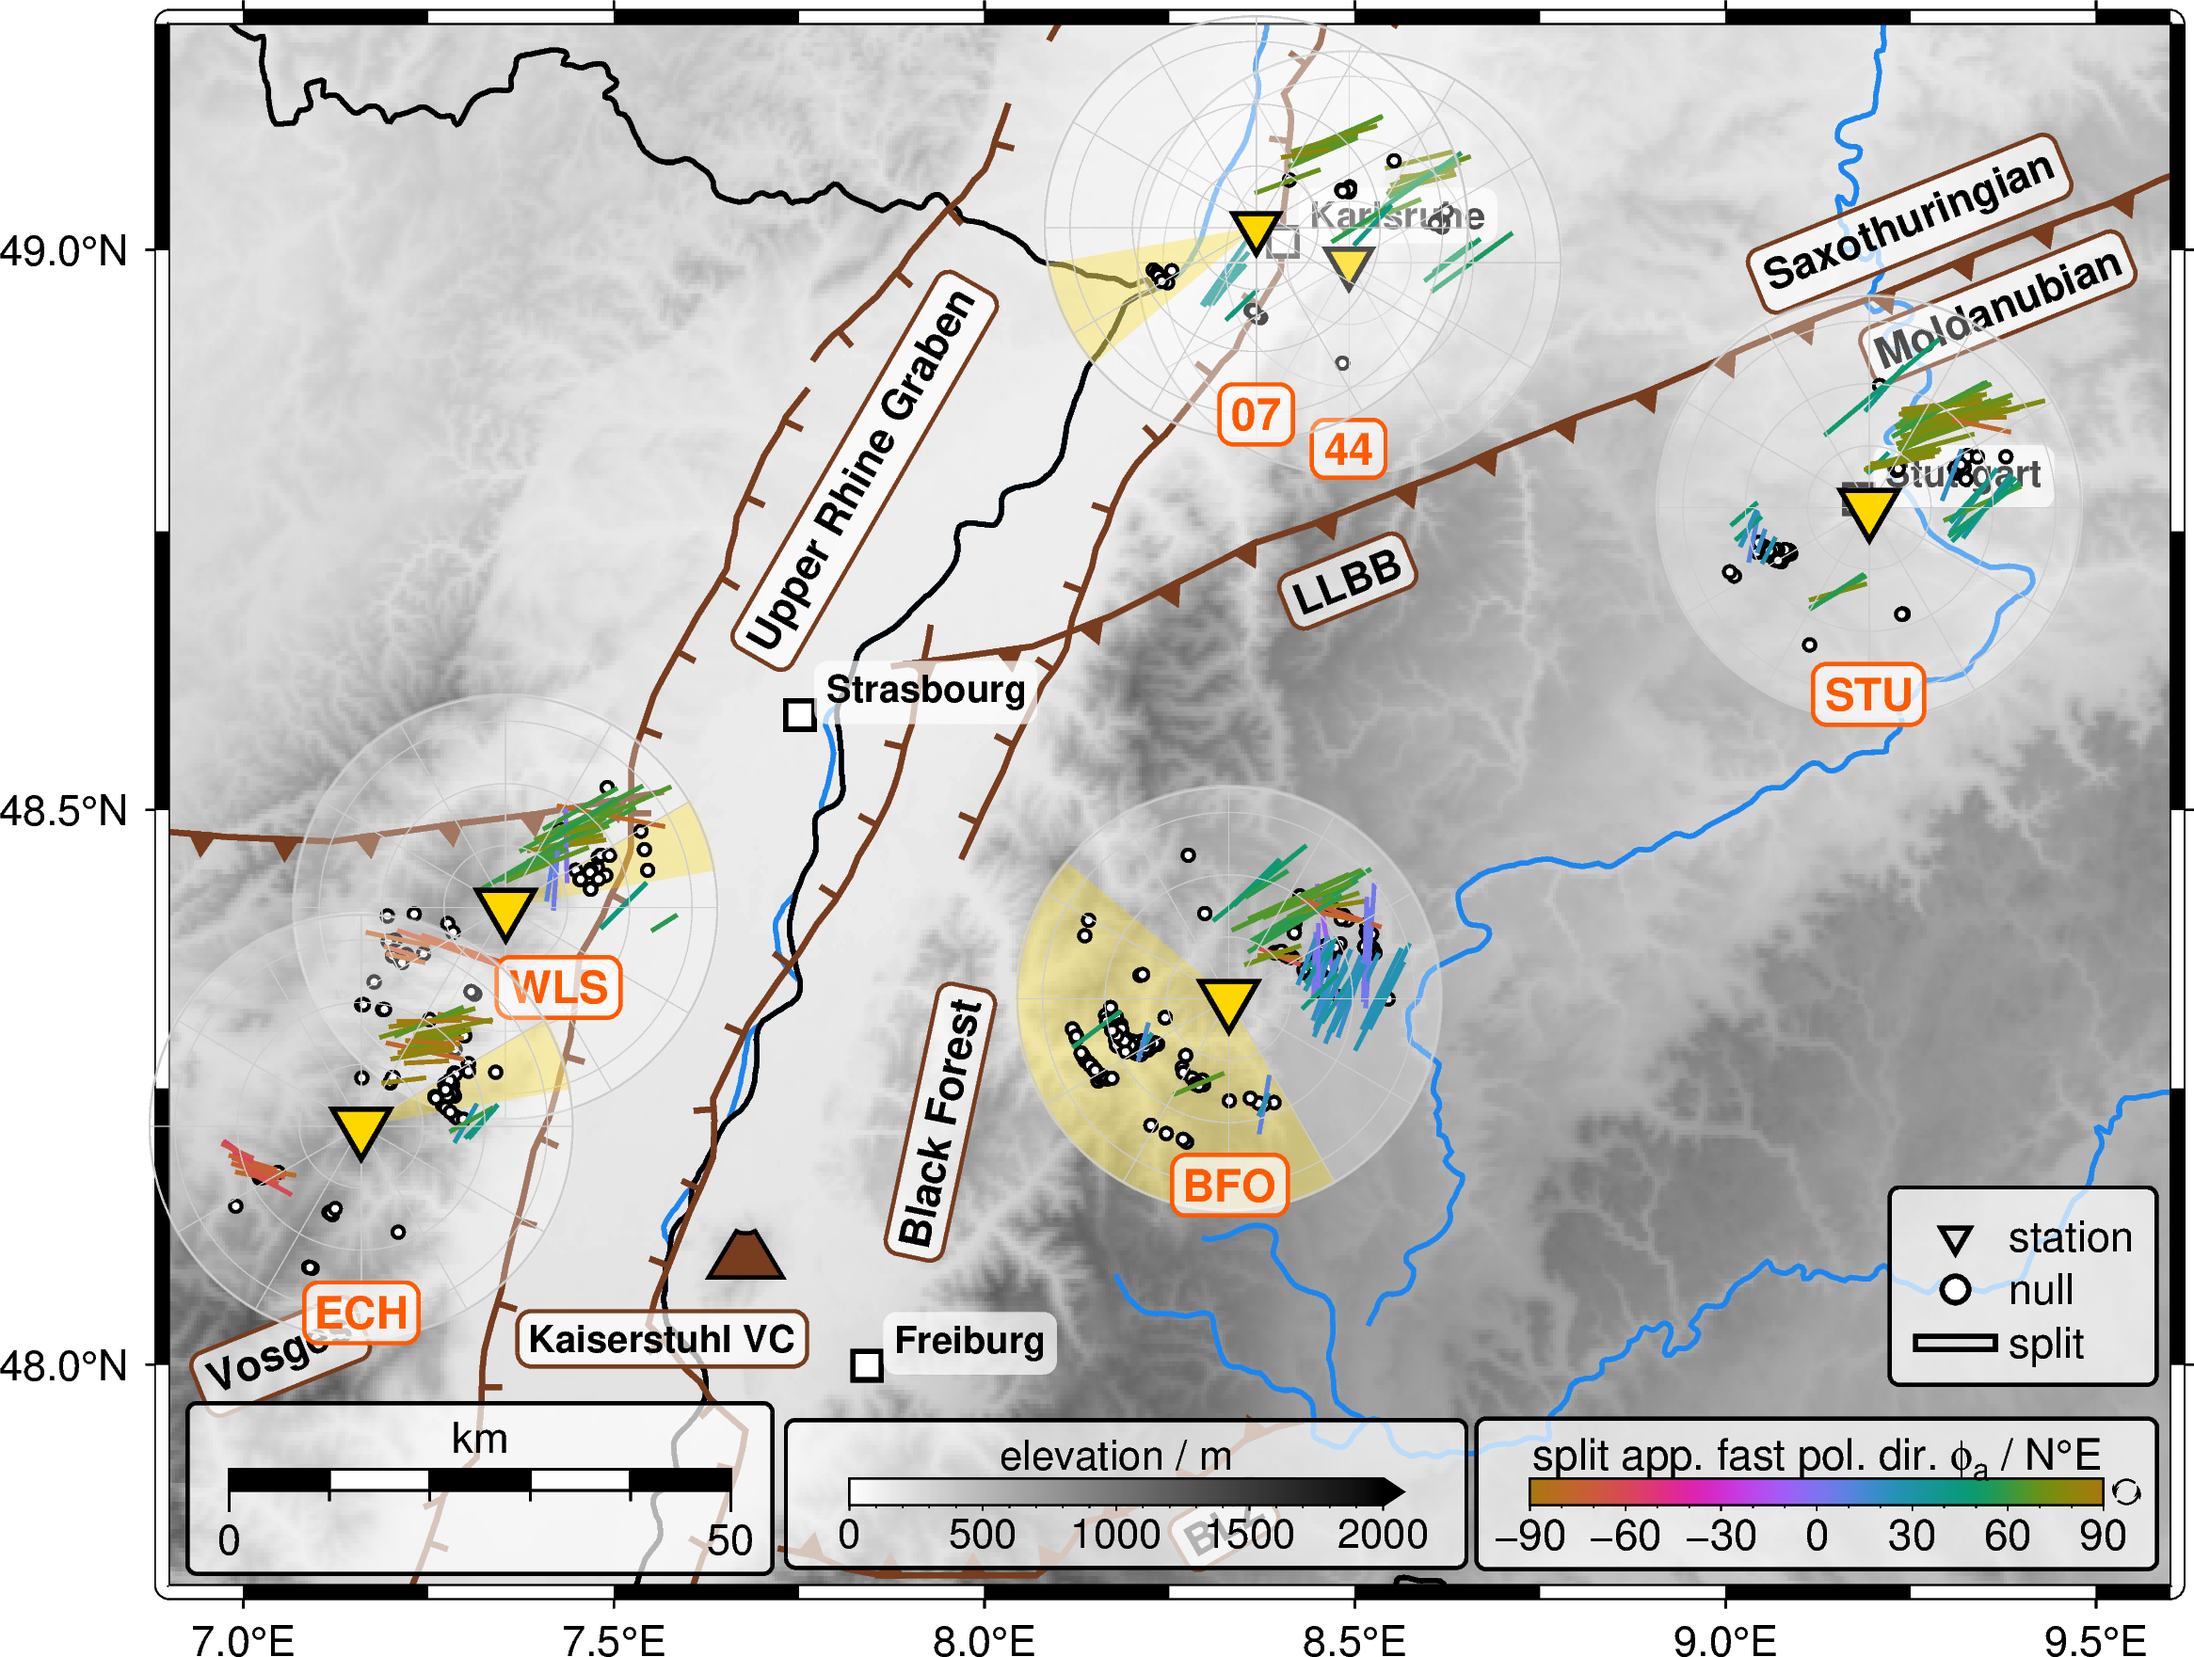
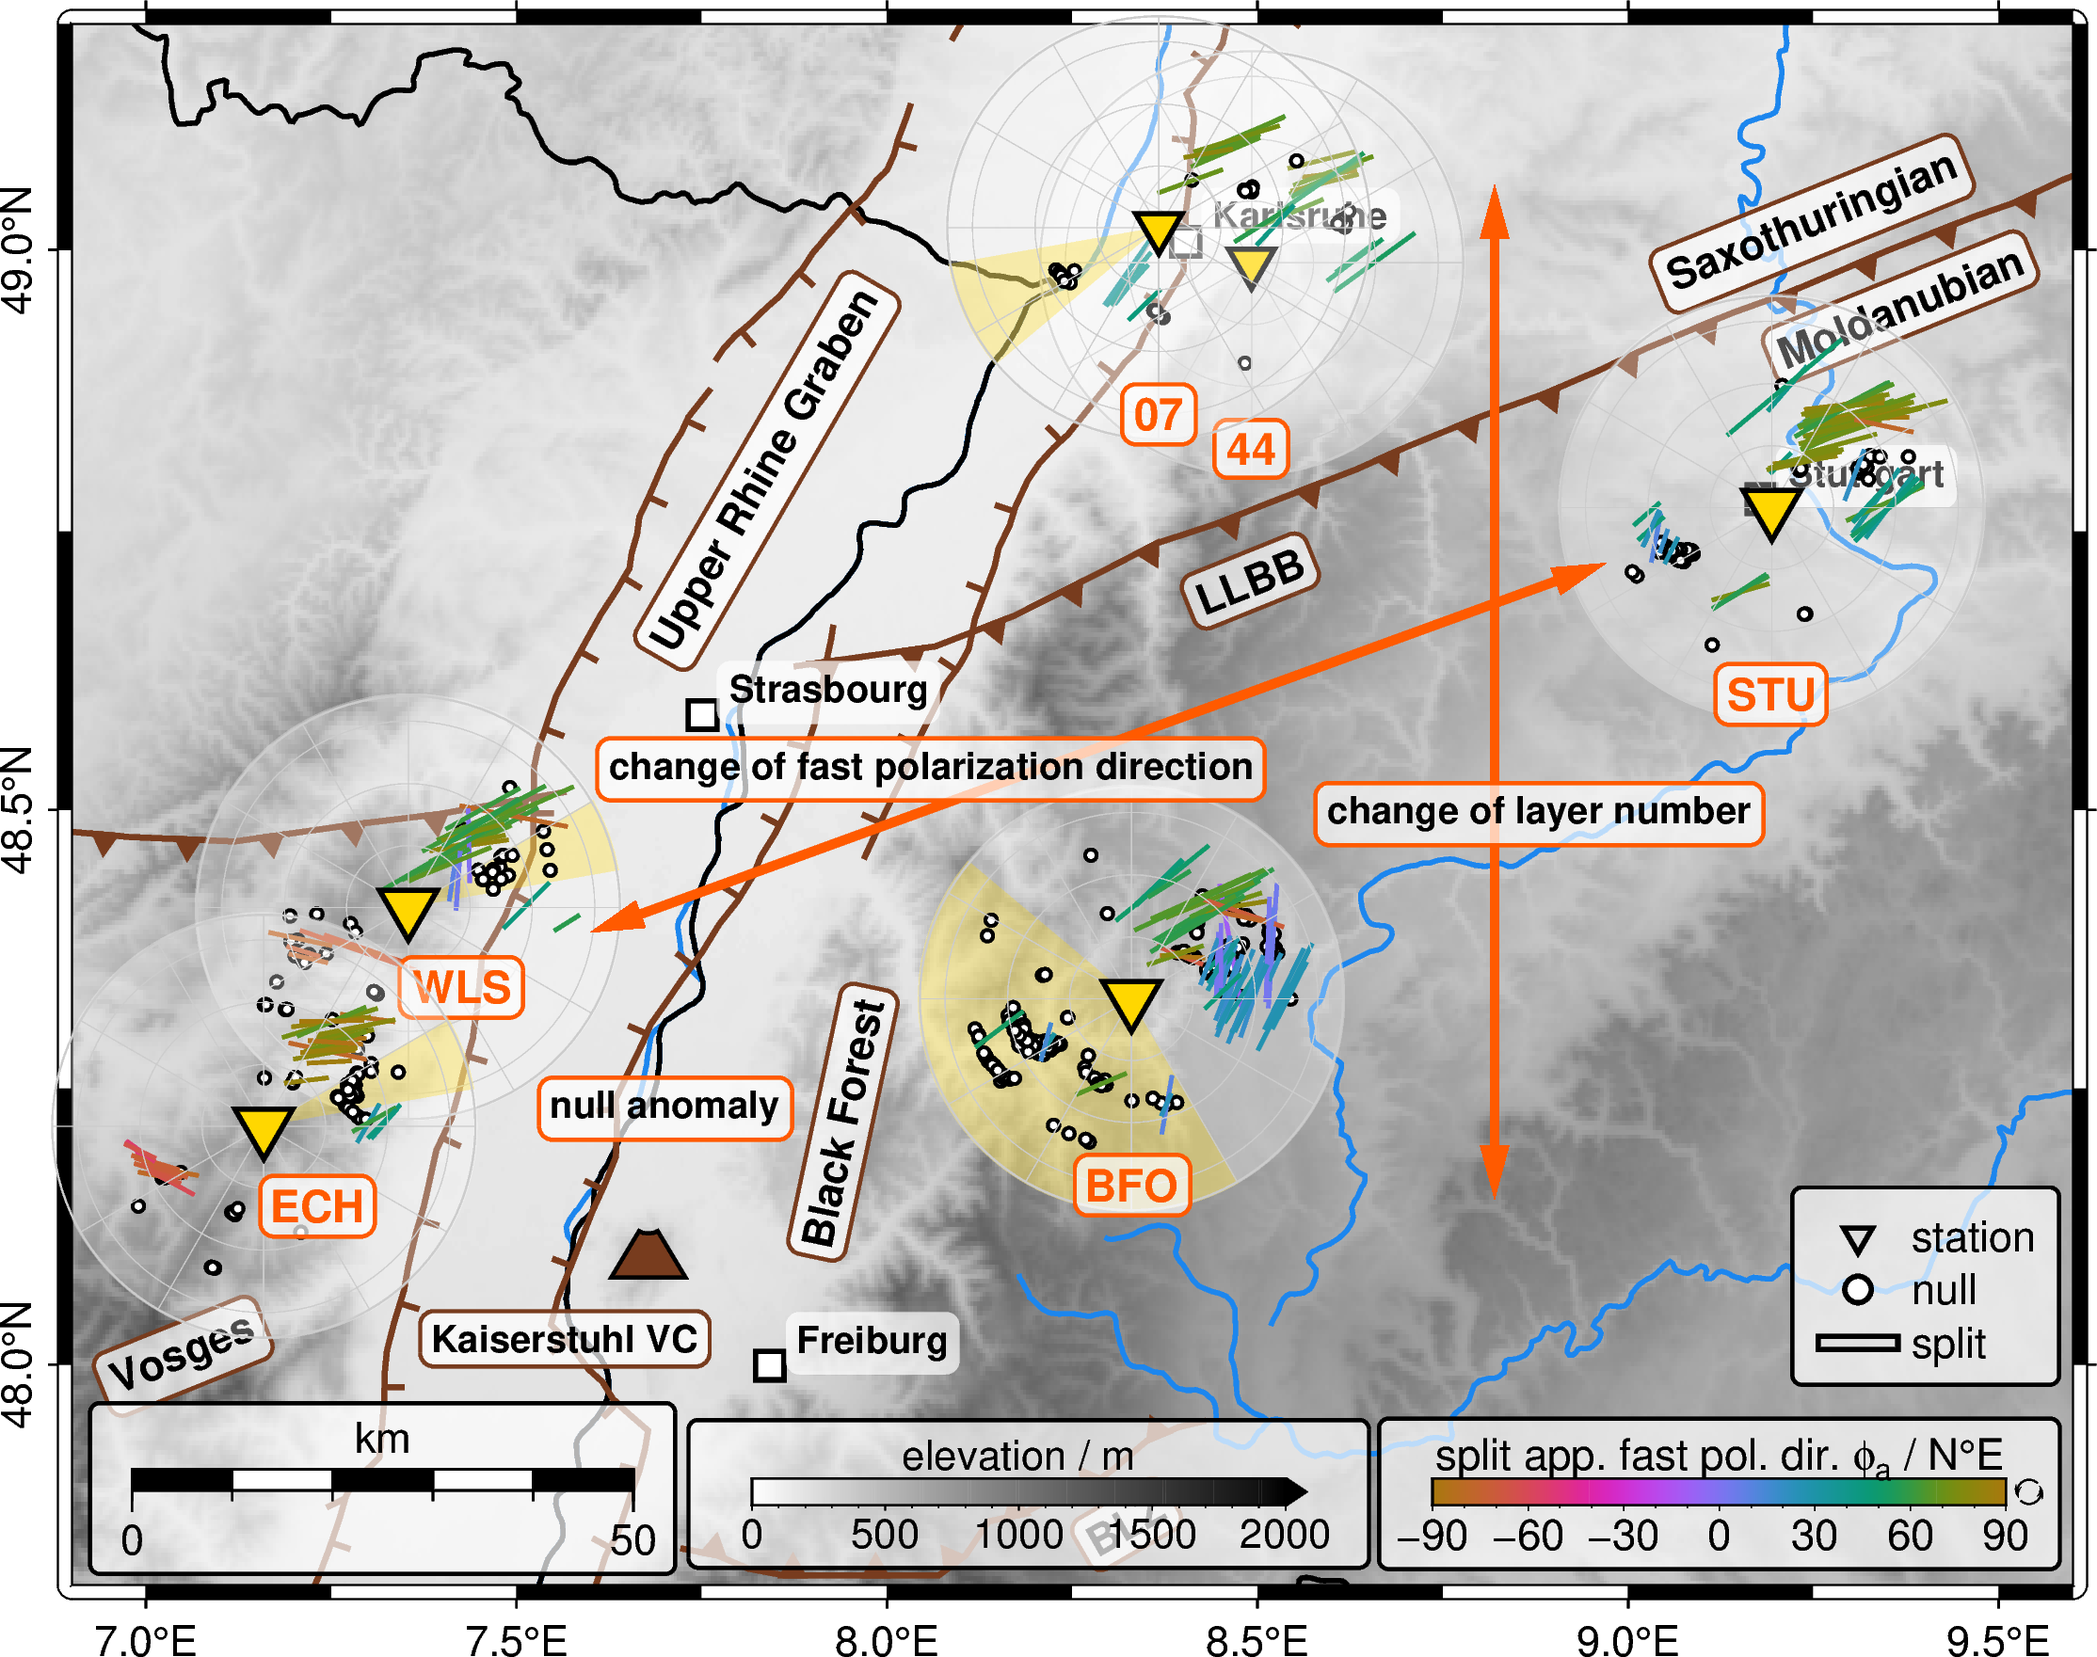
Add content for Fig10 of FGR GJI 2024

diff --git a/002_paper_FGR_2024/Figure_10/FGR2024_GJI_Fig10.py b/002_paper_FGR_2024/Figure_10/FGR2024_GJI_Fig10.py
@@ -124,6 +124,7 @@ gmt.config(
     MAP_FRAME_TYPE="fancy+",
     # formatting template for geographical coordinates F adds NESW after degree sign
     FORMAT_GEO_MAP="ddd.xF",
+    MAP_ANNOT_OBLIQUE="lat_parallel",
     MAP_FRAME_WIDTH="3p",
     FONT_LABEL="9p",
     FONT_ANNOT_PRIMARY="9p",
@@ -271,7 +272,7 @@ for station in stations:
 
     offset_x_sta = 0  # in centimeters
     offset_y_sta = -1.4  # in centimeters
-    if station in ["WLS"]:
+    if station in ["WLS", "ECH"]:
         offset_x_sta = 0.4
         offset_y_sta = -0.6
 
@@ -288,6 +289,69 @@ for station in stations:
         pen=f"0.8p,{color_hl}",
         clearance=clearance_standard,
     )
+
+
+# %%
+# -----------------------------------------------------------------------------
+# Highlight subregions by labels (patterns see above)
+# -----------------------------------------------------------------------------
+style_vector = "v0.4c+ba+ea+a30+h0"#+p0.5p,black"
+# layer number change S-N direction
+fig.plot(
+    x=8.82,
+    y=48.15,
+    # direction cc from horizontal, length in centimeters
+    direction=[[90], [7.6]],
+    style=style_vector,
+    pen=f"2p,{color_hl}",
+    fill=color_hl,
+)
+fig.text(
+    x=8.88,
+    y=48.5,
+    text="change of layer number",
+    font="8p,Helvetica-Bold,black",
+    fill="white@30",
+    pen=f"0.8p,{color_hl}",
+    clearance=clearance_standard,
+)
+
+# -----------------------------------------------------------------------------
+# Fast polarization direction change East West sides of URG
+x_EW = 7.6
+y_EW = 48.39
+dir_EW = [[20], [8.1]]
+y_EW_text = 48.54
+
+fig.plot(
+    x=x_EW,
+    y=y_EW,
+    direction=dir_EW,
+    style=style_vector,
+    pen=f"2p,{color_hl}",
+    fill=color_hl,
+)
+fig.text(
+    x=8.06,
+    y=y_EW_text,
+    text="change of fast polarization direction",
+    font="8p,Helvetica-Bold,black",
+    fill="white@30",
+    pen=f"0.8p,{color_hl}",
+    clearance=clearance_standard,
+)
+
+# -----------------------------------------------------------------------------
+# null anomaly at BFO SW quadrant
+fig.text(
+    x=7.7,
+    y=48.235,
+    text="null anomaly",
+    font="8p,Helvetica-Bold,black",
+    fill="white@30",
+    pen=f"0.8p,{color_hl}",
+    clearance=clearance_standard,
+)
 
 
 # %%

diff --git a/002_paper_FGR_2024/README.md b/002_paper_FGR_2024/README.md
@@ -12,8 +12,9 @@ Python scripts to reproduce some figures of
 
 _Recommended versions_: PyGMT v0.16.0, GMT 6.5.0
 
-- [Figure 1](https://github.com/yvonnefroehlich/gmt-pygmt-plotting/blob/main/002_paper_FGR_2024/Figure_1): Upper Rhine Graben area with seismological recording stations
+- [Figure 1](https://github.com/yvonnefroehlich/gmt-pygmt-plotting/blob/main/002_paper_FGR_2024/Figure_1): topographic map with seismological recording stations
 - [Figure 9](https://github.com/yvonnefroehlich/gmt-pygmt-plotting/blob/main/002_paper_FGR_2024/Figure_9): piercing points in the upper mantle
+- [Figure 10](https://github.com/yvonnefroehlich/gmt-pygmt-plotting/blob/main/002_paper_FGR_2024/Figure_10): topographic map with stereoplots
 - [Figure S1](https://github.com/yvonnefroehlich/gmt-pygmt-plotting/blob/main/002_paper_FGR_2024/Figure_S1): epicenter distribution
 - FGR_FigS9: travel paths of *X*KS phases | _Please see_ [003_taup](https://github.com/yvonnefroehlich/gmt-pygmt-plotting/tree/main/003_taup)
 - [Figure S22](https://github.com/yvonnefroehlich/gmt-pygmt-plotting/blob/main/002_paper_FGR_2024/Figure_S22): piercing points in the lowermost mantle
